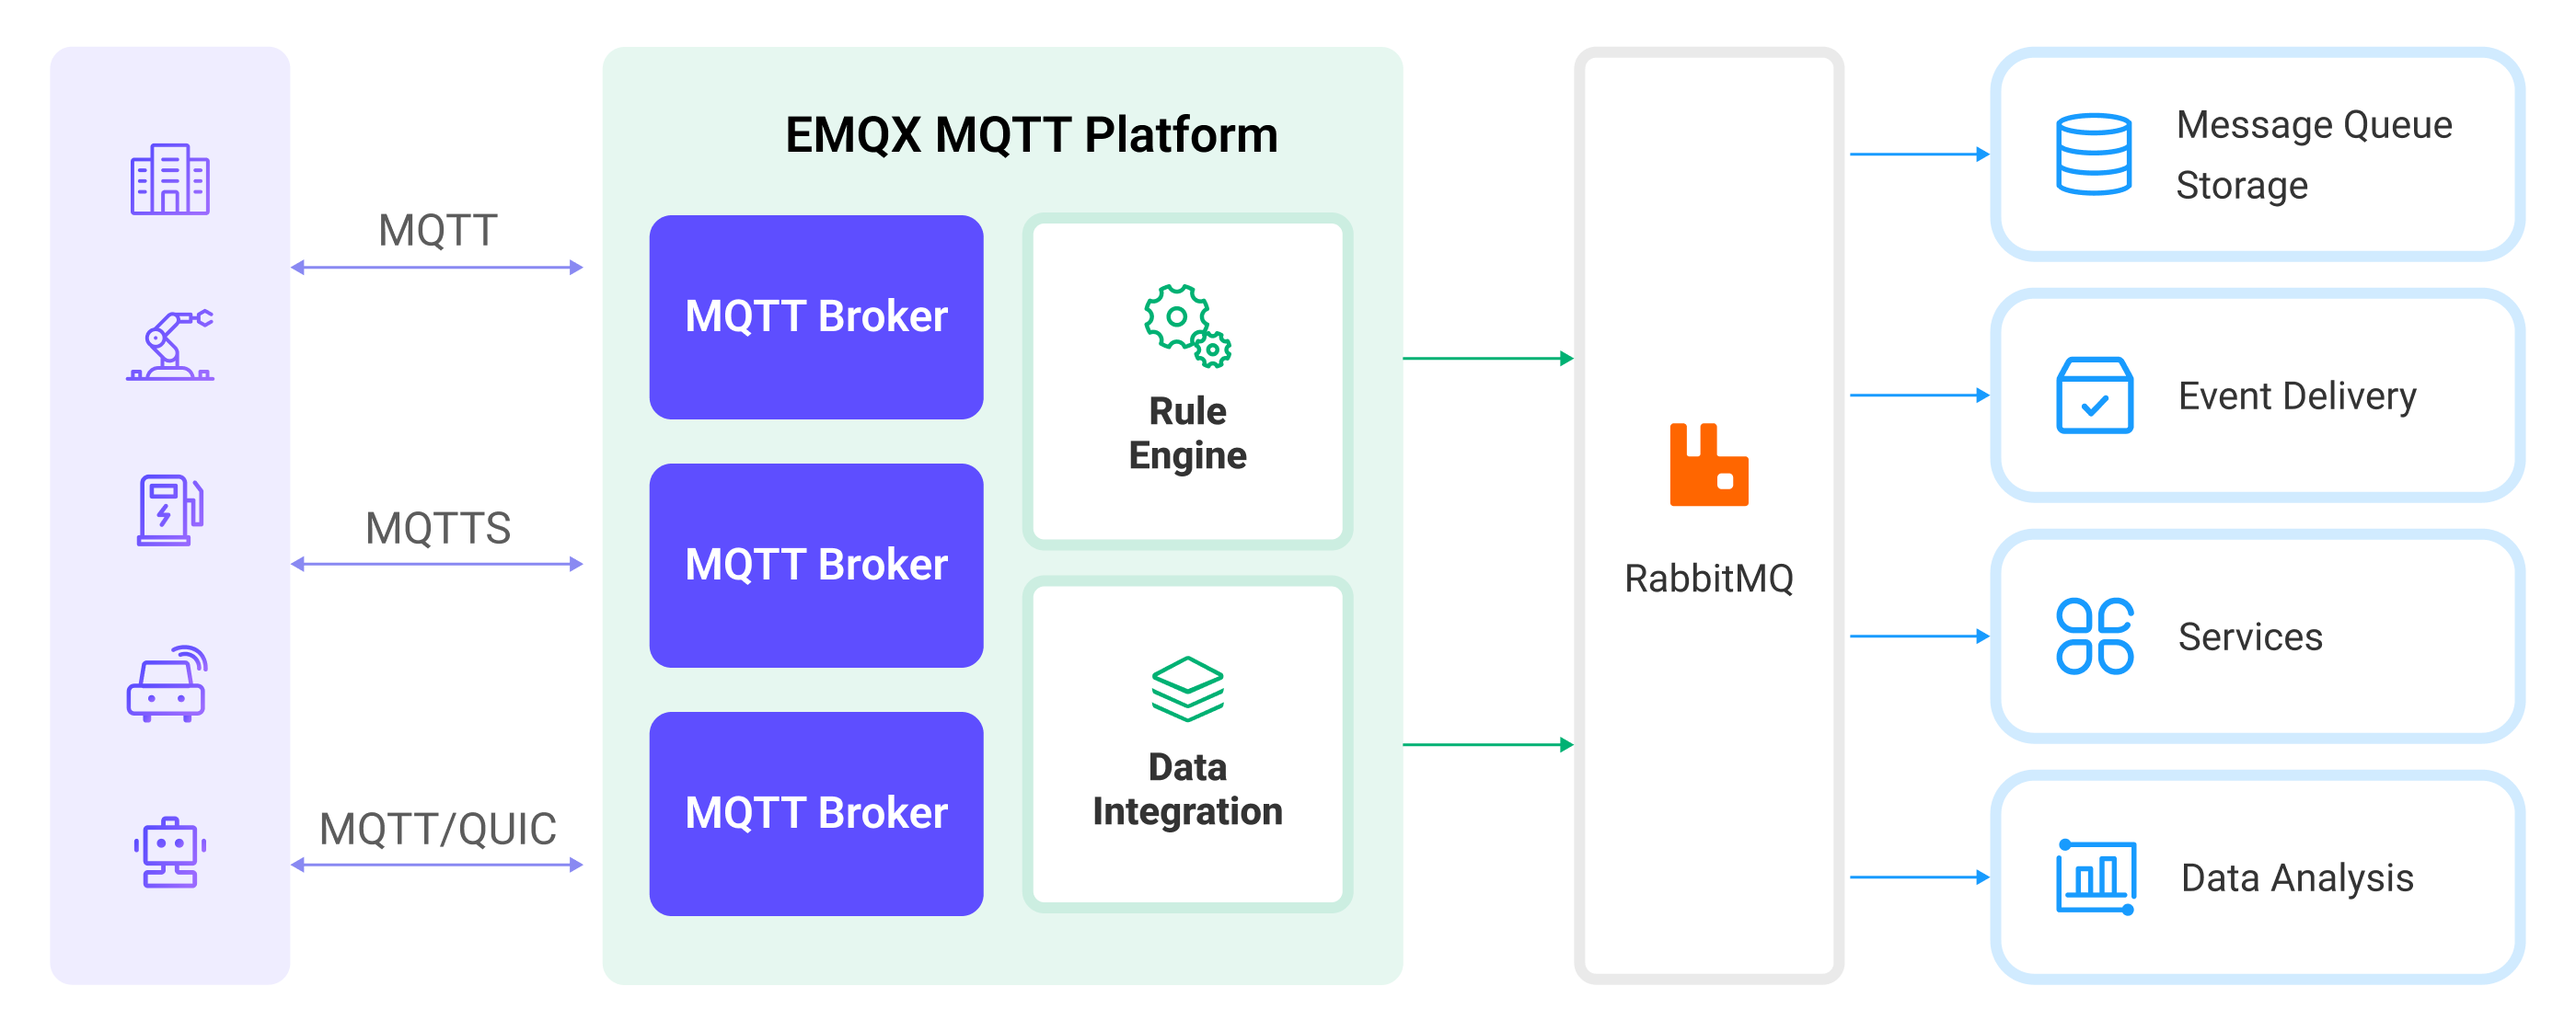
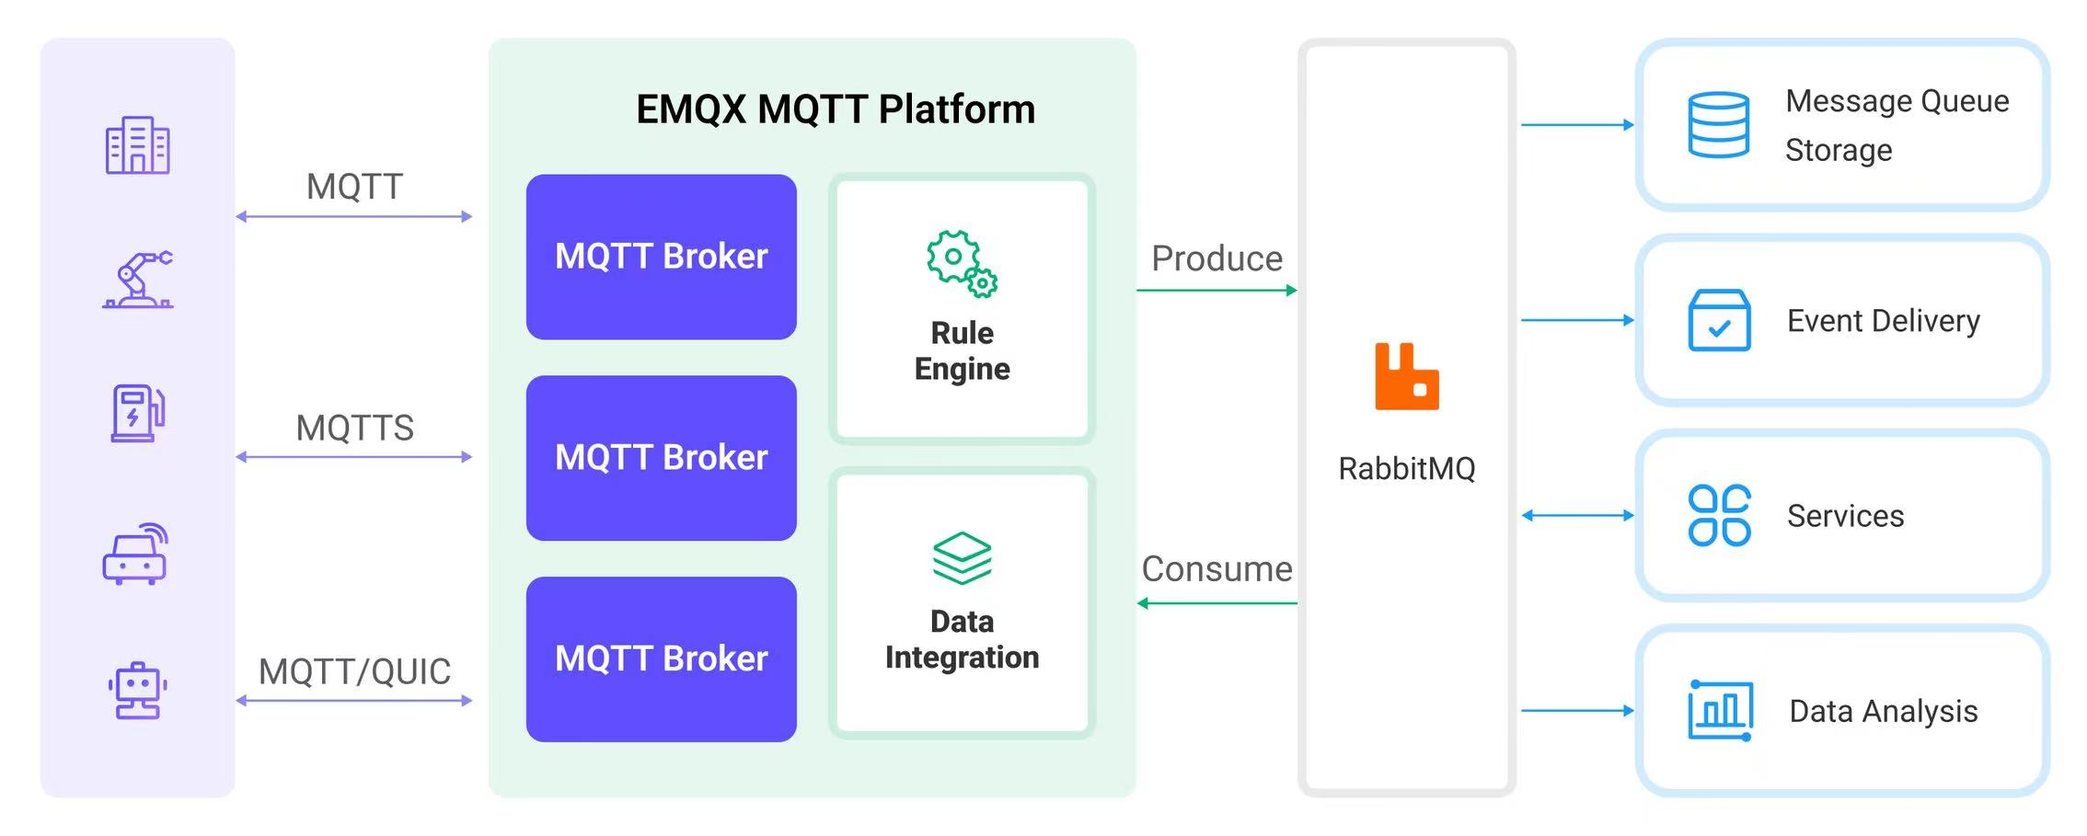
fix (rabbitmq integration): Update architecture illustration

diff --git a/en_US/data-integration/data-bridge-rabbitmq.md b/en_US/data-integration/data-bridge-rabbitmq.md
@@ -14,7 +14,7 @@ This page provides a detailed overview of the data integration between EMQX and 
 
 The RabbitMQ data integration is an out-of-the-box feature in EMQX designed to bridge the gap between MQTT-based IoT data and RabbitMQ's powerful message queue processing capabilities. With a built-in [rule engine](./rules.md) component, the integration simplifies the process of ingesting data from EMQX to RabbitMQ for storage and management, eliminating the need for complex coding.
 
-Take the RabbitMQ Sink for an example, the diagram below illustrates a typical architecture of data integration between EMQX and RabbitMQ: <!-- Update the illustration to show bi-directional data flow?-->
+Take the RabbitMQ Sink for an example, the diagram below illustrates a typical architecture of data integration between EMQX and RabbitMQ: 
 
 ![EMQX Integration RabbitMQ](./assets/emqx-integration-rabbitmq.png)
 
